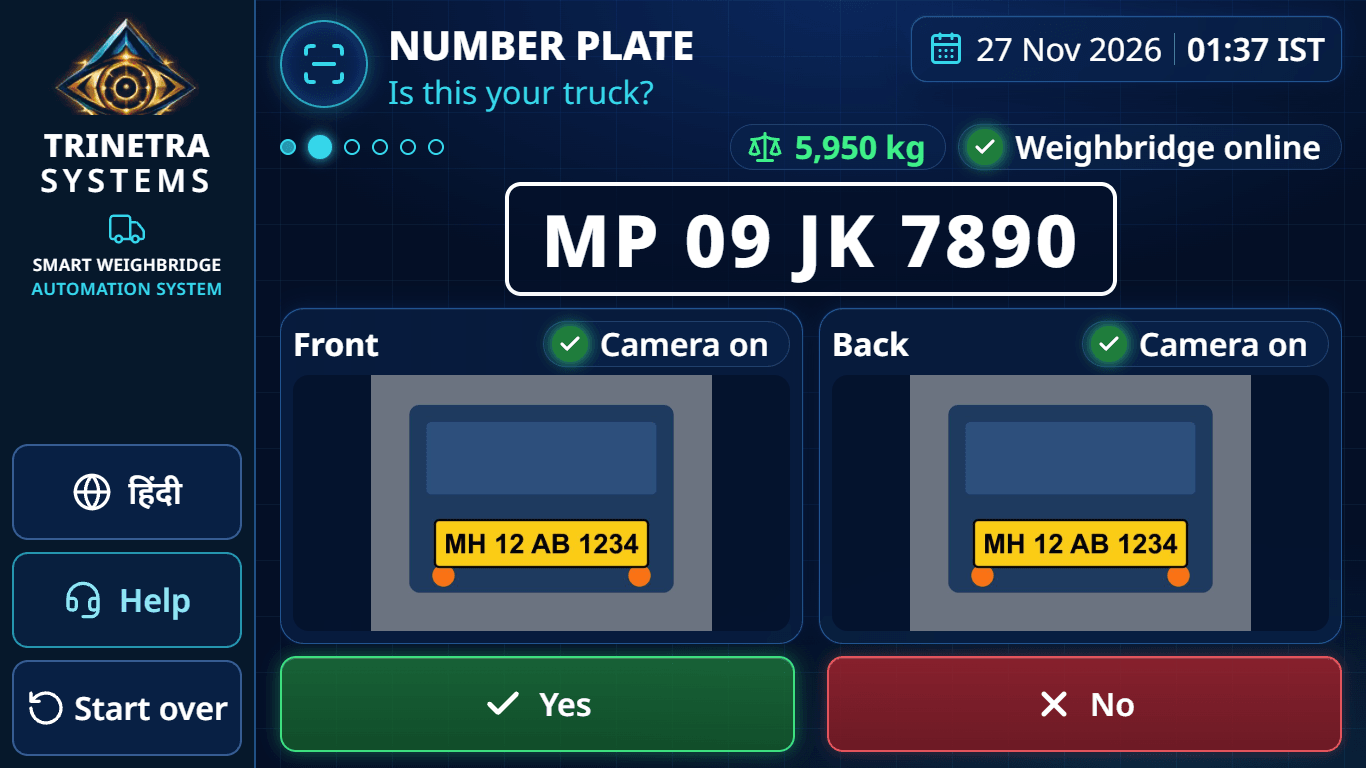
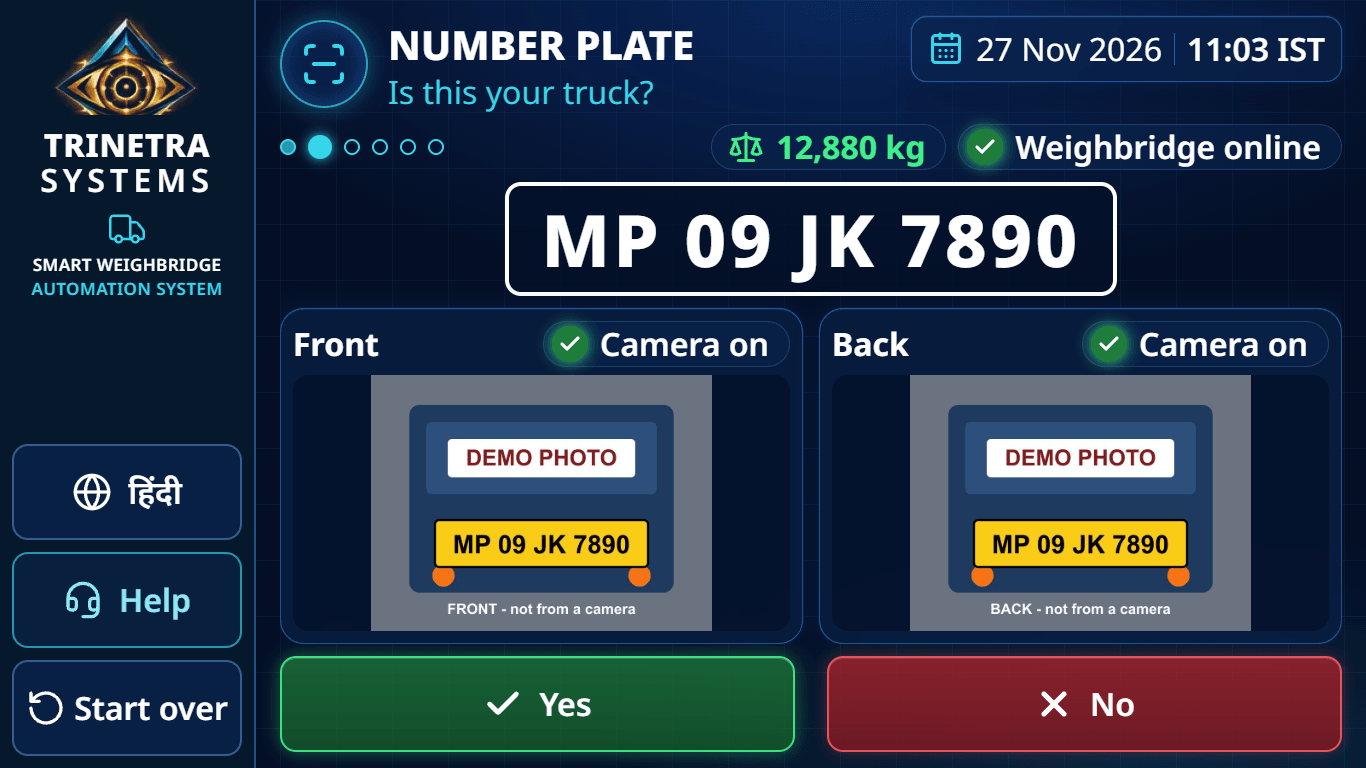
Document the supervisor website, with screenshots, and mark Phase 12 done

diff --git a/docs/HINDI_REVIEW.md b/docs/HINDI_REVIEW.md
@@ -86,7 +86,6 @@ The material words in the seed file (`aliasesHi`) are separate and also unchecke
 | `kiosk.invoice.step3` | Send it | भेज दें |
 | `kiosk.invoice.qr` | QR code to upload your invoice | बिल भेजने का QR कोड |
 | `kiosk.invoice.noPhone` | No phone? | फ़ोन नहीं है? |
-| `kiosk.invoice.officerComing` | The store officer is coming to upload it. | बिल भेजने के लिए स्टोर अधिकारी आ रहे हैं। |
 | `kiosk.invoice.arrived` | Your file arrived | आपकी फ़ाइल मिल गई |
 | `kiosk.invoice.reading` | Reading invoice… | बिल पढ़ा जा रहा है… |
 | `kiosk.invoice.failed` | Not read | पढ़ा नहीं गया |
@@ -219,3 +218,105 @@ The material words in the seed file (`aliasesHi`) are separate and also unchecke
 | `material.aggregate-10-mm` | Aggregate 10 mm | गिट्टी 10 एमएम |
 | `material.sand` | Sand | रेत |
 | `material.bricks` | Bricks | ईंट |
+
+## Phase 12
+
+New or changed for the supervisor's pages and the "No phone?" screen. Not checked by a Hindi speaker. The camera steps name Android and iPhone menus in English: check them against a Hindi phone.
+
+| Key | English | Hindi |
+| --- | --- | --- |
+| `kiosk.invoice.officerComing` | The store officer is coming to upload your bill. Please wait. | आपका बिल भेजने के लिए स्टोर अधिकारी आ रहे हैं। कृपया रुकें। |
+| `kiosk.invoice.waitingOfficer` | Waiting… | इंतज़ार हो रहा है… |
+| `kiosk.invoice.pleaseWait` | Please wait | कृपया रुकें |
+| `kiosk.invoice.foundPhone` | I found my phone → show code again | मेरा फ़ोन मिल गया → कोड फिर दिखाएँ |
+| `menu.trucks` | My trucks | मेरे ट्रक |
+| `tab.trucks` | My trucks | मेरे ट्रक |
+| `page.trucks.subtitle` | The longest wait comes first | सबसे लंबा इंतज़ार सबसे ऊपर |
+| `camera.starting` | Opening the camera… | कैमरा खुल रहा है… |
+| `camera.hint` | Put the number plate inside the box. | नंबर प्लेट को डिब्बे के अंदर रखें। |
+| `camera.take` | Take photo | फ़ोटो लें |
+| `camera.tryAgain` | Try the camera again | कैमरा फिर चालू करें |
+| `camera.denied` | The camera is blocked. Please allow it: | कैमरा बंद है। कृपया इसकी अनुमति दें: |
+| `camera.stepAndroid` | Android Chrome: tap the lock or settings icon beside the address, then Permissions → Camera → Allow. | Android Chrome: पते के पास ताले या सेटिंग वाले निशान को दबाएँ, फिर Permissions → Camera → Allow। |
+| `camera.stepIphone` | iPhone Safari: tap the icon at the left of the address bar, then Website Settings → Camera → Allow. | iPhone Safari: पते की पट्टी के बाईं ओर वाला निशान दबाएँ, फिर Website Settings → Camera → Allow। |
+| `camera.stepThen` | Then press the button below. | फिर नीचे वाला बटन दबाएँ। |
+| `camera.missing` | No camera was found on this device. | इस फ़ोन पर कोई कैमरा नहीं मिला। |
+| `camera.busy` | The camera is in use. Close other camera apps, then try again. | कैमरा कहीं और चल रहा है। दूसरे कैमरा ऐप बंद करके फिर कोशिश करें। |
+| `camera.failed` | The camera did not open. | कैमरा नहीं खुला। |
+| `camera.noLive` | This page cannot show the camera, so the phone's camera app will be used. | यह पेज कैमरा नहीं दिखा सकता, इसलिए फ़ोन का कैमरा ऐप खुलेगा। |
+| `camera.badPhoto` | That photo could not be used. Take another. | यह फ़ोटो काम नहीं आई। दूसरी फ़ोटो लें। |
+| `sup.newTruck` | New truck: {plate} | नया ट्रक: {plate} |
+| `sup.offline` | No connection. Nothing is sent until the network is back. | कनेक्शन नहीं है। नेटवर्क लौटने तक कुछ भी नहीं भेजा जाएगा। |
+| `sup.connection` | Connection: | कनेक्शन: |
+| `sup.tapForSound` | Tap the screen once to turn on the sound for new trucks. | नए ट्रक की आवाज़ चालू करने के लिए स्क्रीन को एक बार छुएँ। |
+| `sup.loading` | Loading… | लोड हो रहा है… |
+| `sup.loadFailed` | The list could not be loaded. | सूची लोड नहीं हो सकी। |
+| `sup.nextTruck` | Next truck | अगला ट्रक |
+| `sup.noTrucks` | No truck is waiting | कोई ट्रक इंतज़ार में नहीं है |
+| `sup.noDone` | Nothing decided yet today | आज अभी कोई फ़ैसला नहीं हुआ |
+| `sup.today` | Today | आज |
+| `sup.kpi.coming` | Coming to me | मेरे पास आए |
+| `sup.kpi.comingNote` | sent to you today | आज आपको भेजे गए |
+| `sup.kpi.waiting` | Waiting for verify | जाँच बाकी |
+| `sup.verified` | Verified | जाँच पास |
+| `sup.trip` | Trip {trip} | फेरा {trip} |
+| `sup.waitingFor` | waiting {minutes} min | {minutes} मिनट से इंतज़ार |
+| `sup.column.trip` | Trip no. | फेरा नं. |
+| `sup.column.since` | Since first weight | पहले वज़न से |
+| `sup.chainage` | Chainage | चेनेज |
+| `sup.firstWeight` | First weight | पहला वज़न |
+| `sup.frontPhoto` | Weighbridge photo | धर्म कांटे की फ़ोटो |
+| `sup.kioskPhoto` | At the weighbridge | धर्म कांटे पर |
+| `sup.myPhoto` | My photo | मेरी फ़ोटो |
+| `sup.noPhoto` | No photo | फ़ोटो नहीं है |
+| `sup.enlarge` | Show the photo large | फ़ोटो बड़ी करें |
+| `sup.verify.title` | Verify truck | ट्रक की जाँच |
+| `sup.verify.subtitle` | Photograph its number plate | इसकी नंबर प्लेट की फ़ोटो लें |
+| `sup.photographPlate` | Photograph the number plate | नंबर प्लेट की फ़ोटो लें |
+| `sup.retake` | Retake | फिर से लें |
+| `sup.retakeLeft` | Retake ({count} left) | फिर से लें ({count} बाकी) |
+| `sup.usePhoto` | Use this photo | यही फ़ोटो भेजें |
+| `sup.reading` | Reading the plate… | प्लेट पढ़ी जा रही है… |
+| `sup.saving` | Saving… | सेव हो रहा है… |
+| `sup.backToResult` | Back to the result | नतीजे पर वापस |
+| `sup.ticketPlate` | Ticket plate | टिकट की प्लेट |
+| `sup.photoReads` | Read from your photo | आपकी फ़ोटो से पढ़ा |
+| `sup.banner.MATCH` | Plate matches | प्लेट मिल गई |
+| `sup.banner.CLOSE` | Almost matches, check with your eyes | लगभग मिलती है, अपनी आँखों से जाँचें |
+| `sup.banner.NO_MATCH` | Plate does not match | प्लेट नहीं मिलती |
+| `sup.banner.NOT_READ` | Could not read | प्लेट पढ़ी नहीं गई |
+| `sup.result.MATCH` | Plate matches | प्लेट मिलती है |
+| `sup.result.CLOSE` | One letter differs | एक अक्षर अलग |
+| `sup.result.NO_MATCH` | No match | मेल नहीं |
+| `sup.result.NOT_READ` | Not read | पढ़ी नहीं गई |
+| `sup.result.MANUAL` | Manual check | हाथ से जाँच |
+| `sup.overrideReason` | To approve, type why (at least {count} letters) | मंज़ूरी देने के लिए कारण लिखें (कम से कम {count} अक्षर) |
+| `sup.approveAnyway` | Approve anyway | फिर भी मंज़ूरी दें |
+| `sup.manualCheck` | Manual check | हाथ से जाँच |
+| `sup.typePlate` | Type the plate you see on the truck | ट्रक पर जो प्लेट दिख रही है, वह लिखें |
+| `sup.approveManual` | Approve (manual check) | मंज़ूरी दें (हाथ से जाँच) |
+| `sup.rejectWhy` | Why are you rejecting it? | आप इसे क्यों अस्वीकार कर रहे हैं? |
+| `sup.rejectTruck` | Reject truck | ट्रक अस्वीकार करें |
+| `sup.reason.wrongTruck` | Wrong truck | गलत ट्रक |
+| `sup.reason.covered` | Plate covered/fake | प्लेट ढकी या नकली |
+| `sup.reason.notUnloaded` | Material not unloaded | माल नहीं उतारा गया |
+| `sup.reason.other` | Other | कुछ और |
+| `sup.reason.type` | Type the reason | कारण लिखें |
+| `sup.done.approved` | Approved. The truck can go back for the second weighing. | मंज़ूरी दे दी। ट्रक दूसरे वज़न के लिए लौट सकता है। |
+| `sup.done.rejected` | Rejected. The truck is blocked and the store officer is told. | अस्वीकार किया। ट्रक रोक दिया गया है और स्टोर अधिकारी को बता दिया गया है। |
+| `sup.done.taken` | Already done by someone else. | यह काम पहले ही हो चुका है। |
+| `sup.nextTruckPlate` | Next truck: {plate} | अगला ट्रक: {plate} |
+| `sup.backToTrucks` | Back to my trucks | मेरे ट्रक पर वापस |
+| `sup.backToDone` | Back to the list | सूची पर वापस |
+| `sup.detail.title` | Truck details | ट्रक का ब्योरा |
+| `sup.decidedAt` | Decided | फ़ैसले का समय |
+| `sup.typedPlate` | Plate you typed | आपकी लिखी प्लेट |
+| `sup.confidence` | Reader's confidence | पढ़ने का भरोसा |
+| `sup.reasonLabel` | Reason | कारण |
+| `sup.cameraApp` | Taken with the phone's camera app | फ़ोन के कैमरा ऐप से ली गई |
+| `sup.error.photoLimit` | No photos left. Reject, or check by hand. | अब और फ़ोटो नहीं ले सकते। अस्वीकार करें या हाथ से जाँचें। |
+| `sup.error.photoBusy` | The last photo is still being read. Wait a moment. | पिछली फ़ोटो अभी पढ़ी जा रही है। थोड़ा रुकें। |
+| `sup.error.plateDiffers` | That is not this ticket's plate. Check again, or reject the truck. | यह इस टिकट की प्लेट नहीं है। फिर देखें, या ट्रक अस्वीकार करें। |
+| `sup.error.reason` | The reason is too short. | कारण बहुत छोटा है। |
+| `sup.error.notYours` | This truck was not sent to your unloading point. | यह ट्रक आपकी उतारने की जगह पर नहीं भेजा गया। |
+| `sup.error.noTruck` | This truck was not found. | यह ट्रक नहीं मिला। |

diff --git a/CLAUDE.md b/CLAUDE.md
@@ -81,7 +81,7 @@ Related docs:
 
 ## Current status
 
-Phase 10 done (the weighbridge kiosk, the phone upload page and the slips), with invoice reading made asynchronous. Next: Phase 12 (supervisor website), or Phase 5B (needs hardware code). Phase 5 is still open. The real plate-reading test (9 of 10 on ESP32-CAM photos of the model plates) is part of 5B and has not been run. Nothing has been tried on a real touchscreen, phone or printer. The Hindi text is unchecked ([docs/HINDI_REVIEW.md](docs/HINDI_REVIEW.md)).
+Phase 12 done (the supervisor website), with three Phase 10 fixes: `PUBLIC_WEB_URL` + `pnpm lan`, the demo-mode plate photo and the "No phone?" screen. Next: Phase 13 (store officer website), or Phase 5B (needs hardware code). Phase 5 is still open. The real plate-reading test (9 of 10 on ESP32-CAM photos of the model plates) is part of 5B and has not been run. **Nothing has been tried on a real touchscreen, phone or printer** (Phase 12's "Done when" passed in the browser test only). The Hindi text is unchecked ([docs/HINDI_REVIEW.md](docs/HINDI_REVIEW.md)). To try on a phone: [docs/PROGRESS.md](docs/PROGRESS.md#testing-on-your-phone).
 
 Business rules are pure functions in `packages/shared` (`src/rules`, `src/matching`, `src/format.ts`). Use them; do not repeat a rule in the backend or website. The ticket API's request schemas and answer types are in `src/tickets.ts`.
 
@@ -91,7 +91,9 @@ Website rules to keep: call the backend only through `api` (`apps/web/src/lib/ap
 
 Kiosk rules to keep: `/kiosk` is one page (`components/kiosk/kiosk-app.tsx`). `lib/kiosk/flow.ts` decides the screen from the ticket's status plus the driver's step; every driver screen is a `KioskFrame`. A press that saves goes through `useAction()` (one at a time, same Idempotency-Key on retry). After any `await`, check the kiosk has not moved on (`sameDriver()`, or `answered(from)`): the truck may have left.
 
-**Phases 11–14 must follow [docs/design/STYLE_GUIDE.md](docs/design/STYLE_GUIDE.md):** two themes (token colour names only), the shared components (`/dev/ui` shows them), status = colour + icon + word, and the driver rules. Every new kiosk screen is checked with `look()` (`tests/e2e/kiosk-world.ts`) at 1366×768 and 1920×1080 in both languages with its longest message showing, and its picture is looked at. `pnpm test:e2e` runs the browser tests (installed Chrome, development database, demo reset); `pnpm screenshots:kiosk` retakes `docs/screenshots/phase10`. The design reference images and side-by-side comparisons are on this computer only: do not commit them (public repository) unless the user says so. `pnpm office` makes the supervisor's and store's decisions until Phases 12 and 13.
+Supervisor rules to keep: the supervisor's pages are `app/supervisor/(signed-in)/` (data in `lib/supervisor/queries.ts`, keys start with `SUPERVISOR_KEY`); `TruckWatcher` in `RoleShell` does live reloading, the sound and the tab title. Staff take photos only with `components/camera/live-camera.tsx` (reuse it for the store pages). The backend judges every photo (`comparePlates`) and refuses an approval without one. Buttons are at least 48 px. `pnpm test:e2e` includes `supervisor.spec.ts`; `PHASE12_SHOTS=1` retakes `docs/screenshots/phase12` (then `pnpm -C scripts run compress-screenshots ../docs/screenshots/phase12`).
+
+**Phases 11–14 must follow [docs/design/STYLE_GUIDE.md](docs/design/STYLE_GUIDE.md):** two themes (token colour names only), the shared components (`/dev/ui` shows them), status = colour + icon + word, and the driver rules. Every new kiosk screen is checked with `look()` (`tests/e2e/kiosk-world.ts`) at 1366×768 and 1920×1080 in both languages with its longest message showing, and its picture is looked at. `pnpm test:e2e` runs the browser tests (installed Chrome, development database, demo reset); `pnpm screenshots:kiosk` retakes `docs/screenshots/phase10`. The design reference images and side-by-side comparisons are on this computer only: do not commit them (public repository) unless the user says so. `pnpm office` makes the store officer's decisions until Phase 13 (it can still make the supervisor's).
 
 Settle before the phases that need it:
 
@@ -100,9 +102,12 @@ Settle before the phases that need it:
 - **Open:** logging out does not close the live connection of other open tabs; the server ends it when the 12 hour login expires. (Such a tab goes to the login when it next gets focus.)
 - **Open:** the kiosk's dialogs are not measured by the driver-rule check.
 - **Open:** "Reset demo data" does not delete help calls made before a ticket existed.
-- **Phases 12/13:** replace the dashboard homes' sample data with real data, delete `src/lib/sample-data.ts`, and make the bell count real alerts. The store pages must handle driver help (also from "No phone?": the officer scans the kiosk's QR code).
+- **Phase 13:** replace the store home's sample data with real data, delete `src/lib/sample-data.ts`, and make the store's bell count real alerts. The store pages must handle driver help; from "No phone?" the kiosk hides the QR code, so the officer presses "I found my phone → show code again" and scans it (or the store page gets its own upload).
+- **To try with a real phone (Phase 12):** certificate warning, camera on Android Chrome and iPhone Safari, the live connection on iPhone with the self-signed certificate, sound and vibration.
+- **To decide:** with the current seed only Amit Kumar receives trucks (every Type 1 material is unloaded at Plant). Showing another unloading point's supervisor needs a seed rule change.
+- **To decide:** send the supervisor's GPS with the photo (build plan section 10; the backend accepts it, the page does not send it).
 - **Phase 14:** build `/t/<ticket-no>` (the slips' QR codes point to it) and the demo settings behind the 3 second logo hold (it offers only "Log out" now).
-- **To try with a real phone:** the invoice QR holds `FRONTEND_ORIGIN`, so the phone must be able to open that address. Test "Take photo" and an iPhone HEIC photo.
+- **To try with a real phone:** the QR codes hold `PUBLIC_WEB_URL` (`pnpm lan` sets it). Test "Take photo" and an iPhone HEIC photo.
 - **A high plate confidence is not proof** (a 99% read was wrong in the Phase 7 check): the driver always confirms the plate.
 - **Gemini backup (decided):** `GEMINI_FALLBACK_MODEL` (default `gemini-3.5-flash-lite`) is asked once when `GEMINI_MODEL` is busy, rate limited or times out. Results carry `model`. `gemini-3.8-flash` itself had not answered a request during Phase 7.
 - **To decide:** Whether to ask Gemini for a second opinion when Plate Recognizer's read is not in the vehicle list or front and back differ.
@@ -113,6 +118,7 @@ Settle before the phases that need it:
 - **Before Phase 16:** set `NODE_ENV=production` on Railway (otherwise the login cookie is not `Secure`).
 - **Before Phase 16:** configure Fastify's `trustProxy` safely for Railway, so rate limits use the real client address (otherwise all users may share the limits; login: 20 a minute, phone upload: 30 a minute). With the rewrite, it must cover both hops.
 - **Before Phase 16:** test the Supabase storage driver against the real bucket.
+- **Before Phase 16:** set `PUBLIC_WEB_URL` on Railway and Vercel to the website's address. The demo "pick" photo is drawn with a system font: check its text on Railway (Linux).
 - **Before Phase 16:** set `BACKEND_URL` on Vercel, and test an 8 MB upload and a slow plate reading (up to about 28 s) through Vercel's forwarding.
 - **Before Phase 16:** the "live" room has no limit on how many viewers can connect.
 

diff --git a/docs/PROGRESS.md b/docs/PROGRESS.md
@@ -244,12 +244,56 @@ Added 2026-11-26, not one of the 120 steps.
 
 ## Phase 12 — Supervisor website
 
-- [ ] **100.** My trucks list with live updates, sound and vibration.
-- [ ] **101.** Live camera component (back camera, capture, compress), shared with the store pages.
-- [ ] **102.** Verify page: photos, plate match, approve / reject / manual check.
-- [ ] **103.** Done list.
+- [x] **100.** My trucks list with live updates, sound and vibration.
+- [x] **101.** Live camera component (back camera, capture, compress), shared with the store pages.
+- [x] **102.** Verify page: photos, plate match, approve / reject / manual check.
+- [x] **103.** Done list.
+
+**Also in this phase** (added 2026-11-27, not one of the 120 steps), fixes from the Phase 10 review:
+
+- [x] `PUBLIC_WEB_URL` goes into the invoice and slip QR codes; `pnpm lan` serves the website over https on the Wi-Fi address.
+- [x] Demo "pick" plate mode draws a "DEMO PHOTO" with the picked number. It no longer shows a camera's photo, which could carry another plate.
+- [x] Kiosk "No phone?": the QR code and steps go; a waiting card and "I found my phone → show code again".
+- [ ] The new Hindi text needs your review: [HINDI_REVIEW.md](HINDI_REVIEW.md#phase-12).
 
 **Done when:** approving on a phone unlocks the kiosk in under 1 second.
+
+✅ Passed on 2026-11-27 **in the browser test only**: Playwright with a 390×844 window as the phone, a pretend camera stream, the ESP32 simulator and demo "pick" plate mode. The kiosk showed the approval 110–180 ms after the tap, with everything on one computer. A Type 1 truck was weighed at the real kiosk screens, appeared on the phone by itself, was approved there, and finished its second weighing. The tests also cover one letter different, no match, reject, manual check, double tap, lost network, "Already done by someone else", login and back to the same page, another supervisor (403), a refused camera and a page without a camera. All 40 browser tests (the Phase 10 journeys among them) and the five `pnpm journey` scenarios passed. Pictures are in [screenshots/phase12](screenshots/phase12). `pnpm lan` was checked from the laptop itself, through its Wi-Fi address: pages, login (a Secure cookie), live connection by polling and by WebSocket, and another website's origin refused.
+
+- **Not tried on a real phone:** the certificate warning, the real camera, Android Chrome, iPhone Safari (including whether its live connection accepts this certificate; if not, it should keep working by polling), the sound and the vibration (iPhones have no vibration for web pages).
+- No real Plate Recognizer or Gemini call was made. "Could not read" was shown by replacing one answer in the browser; the backend's handling of an unread photo is in the API tests.
+- The supervisor's photo is saved without GPS (build plan section 10 mentions it; the backend accepts it, the page does not send it).
+
+### Testing on your phone
+
+1. Once, after pulling this phase: `pnpm install`, then `pnpm db:migrate`.
+2. Connect the laptop and the phone to the **same Wi-Fi**. A college or office Wi-Fi may stop devices from seeing each other: then use a phone hotspot.
+3. Stop `pnpm dev`, then run `pnpm lan`. It prints the address to open, such as `https://192.168.1.20:3000/supervisor`. (`pnpm lan --ip <address>` if it picked the wrong network.)
+4. On the phone the first time: certificate warning → **Advanced → Proceed** (iPhone: **Show Details → visit this website**).
+5. On the laptop open `https://localhost:3000/kiosk` (the same warning once).
+
+**Windows firewall:** Node.js must be allowed on **private** networks. Windows usually asks the first time: tick **Private networks**. If it did not ask, or the phone cannot connect: Windows Security → Firewall & network protection → Allow an app through firewall → **Node.js JavaScript Runtime** → tick **Private**, and make sure the Wi-Fi is set as a private network.
+
+**One full Type 1 truck:** in a second terminal `pnpm office reset`, then `pnpm office pick cement`; in a third, `pnpm sim --loaded 32560`. Press `a` in the simulator, finish the first visit on the kiosk (material **Cement Bags**), then press `l`. On the phone: **Verify → Take photo → Use this photo → Approve**. Press `a` again: the kiosk offers the second weight. In "pick" mode the photo always "reads" the picked plate; `pnpm office real` after the first weight makes the supervisor's photo use the real readers.
+
+### Supervisor logins (test only)
+
+These are public in the repository. They must be changed before deploying (Phase 16). The unloading point is the one the seed's unloading rules give that supervisor.
+
+| Username | PIN  | Name         | Unloading point                 |
+| -------- | ---- | ------------ | ------------------------------- |
+| amit     | 1001 | Amit Kumar   | Plant                           |
+| suresh   | 1002 | Suresh Yadav | CH-003+750 Bridge Approach Road |
+| ravi     | 1003 | Ravi Singh   | CH-005+250 Hill Section Area    |
+| mahesh   | 1004 | Mahesh Patel | CH-009+800 Near Quarry Area     |
+| vikram   | 1005 | Vikram Sharma| CH-010+500 Middle Section Point |
+| dinesh   | 1006 | Dinesh Verma | Plant (Steel Scrap)             |
+| pankaj   | 1007 | Pankaj Gupta | CH-012+300 Valley Crossing      |
+| ajay     | 1008 | Ajay Kumar   | none in the rules               |
+| deepak   | 1009 | Deepak Yadav | none in the rules               |
+| rohit    | 1010 | Rohit Kumar  | none in the rules               |
+
+**Only `amit` receives trucks with the current seed:** only Type 1 trucks are checked, and every Type 1 material is unloaded at Plant (Amit Kumar). The others see an empty list.
 
 ## Phase 13 — Store officer website
 

diff --git a/docs/DECISIONS.md b/docs/DECISIONS.md
@@ -211,3 +211,14 @@ One row per decision. All rows dated 2026-11-26 come from the [build plan](BUILD
 | 2026-11-27 | New for the kiosk: `GET /api/master`, `GET /api/kiosk/collect`, the live event `photo:arrived`, and `language` in `PATCH /api/tickets/:id/details` | The screens need them |
 | 2026-11-27 | In development a click on the invoice QR code opens the phone page; the production build has no link | To try the upload without a phone |
 | 2026-11-27 | `pnpm office` (pick modes and the people's decisions) and `pnpm sim --loaded <kg>` | To try every type by hand before Phases 12 and 13 |
+| 2026-11-27 | `PUBLIC_WEB_URL` (server and website) is what the invoice and slip QR codes hold. A localhost value is refused, and production refuses to start with only a localhost address. Left empty in plain `pnpm dev`, it falls back to `FRONTEND_ORIGIN` (localhost, for desktop testing) and the server logs a warning. The server allows both `FRONTEND_ORIGIN` and `PUBLIC_WEB_URL` (CORS and the Socket.IO origin check) | A phone cannot open localhost, but local work and the browser tests need the desktop address. Requested (Phase 12) |
+| 2026-11-27 | `pnpm lan`: Next dev with `--experimental-https` and a certificate made by the script (package `selfsigned`, kept in `apps/web/certificates`, not committed). With `NEXT_PUBLIC_SOCKET_URL=same-origin` Next also forwards `/socket.io/` to the backend, so a phone uses one https address. The login cookie is `Secure` whenever `FRONTEND_ORIGIN` is https; it stays SameSite=Lax | Next's own certificate tool downloads a program and adds a root certificate to Windows, and covers localhost. An https page cannot open the backend's plain ws://, and a phone's certificate exception covers only one port. This changes, for LAN mode only, the rule that Socket.IO connects to the backend directly |
+| 2026-11-27 | Demo "pick" plate mode asks no camera; it saves a drawn "DEMO PHOTO" showing the picked number. Replaces the earlier row that kept connected cameras' photos | A screen must never show a plate other than the one picked. Requested |
+| 2026-11-27 | "No phone?" replaces the QR code with a waiting card; the driver's reminders stop there. The officer (Phase 13) can press "I found my phone → show code again" to scan the code | Requested |
+| 2026-11-27 | The supervisor's photo result is MATCH, CLOSE (one character changed, missing or extra), NO_MATCH or NOT_READ. **No approval without a live photo.** CLOSE: Approve means "I checked with my eyes". NO_MATCH: a reason of 10+ characters. NOT_READ: a reason of 10+ characters and the typed plate, which must equal the ticket's plate; saved as MANUAL. Replaces the build plan's "up to 3 photos, then reject or manual check with a note" (the 3 photo limit stays) | Requested (Phase 12). A typed plate that differs is a different truck |
+| 2026-11-27 | Migration 0004 adds `approvals.match_result`, `plate_confidence`, `capture_source` and `manual_plate`; the supervisor's note is saved in `reason`. `GET /api/supervisor/tickets` also returns the supervisor's unloading points, lists waiting trucks oldest first, and `status=done` is today (India time) only. No new route | Everything the check needs is saved with the request; the pages reuse the existing routes |
+| 2026-11-27 | A supervisor's rejection keeps the existing rule: the ticket is BLOCKED and the store officer is told. Reasons: Wrong truck, Plate covered/fake, Material not unloaded, or "Other: …", saved in English. Replaces the build plan's reason list | The request said to follow the existing rule and add no new state; it also mentioned HOLD, but HOLD exists only for a failed tolerance check |
+| 2026-11-27 | Home numbers, for today: Coming to me = trucks sent to this supervisor today (decided today + waiting); Waiting for verify = waiting now; Average wait = first weight to decision | No status says that a truck is on its way to the unloading point |
+| 2026-11-27 | The camera is the in-page back camera, with no gallery. Only where the page cannot open a camera at all, a file input with `capture="environment"` is used and the photo is saved as `captureSource=fallback`. Photos are JPEG, at most 1280 px (the build plan said about 1600). GPS is not sent | Requested. A refused camera shows how to allow it instead |
+| 2026-11-27 | After a 401 a staff page goes to its login with `?next=<page>`; only a page of the same part is accepted | Come back to the same page, without letting an address send anyone elsewhere |
+| 2026-11-27 | The general rate limit is 1200 requests a minute when `NODE_ENV=development` (also `pnpm lan`); production and tests stay at 300, and the login and upload limits are unchanged. A login check answered 429 is asked again every 3 s | Behind the website every browser shares one address. With the supervisor pages loading real data, quick page loads reached 300 and the page stayed on "Checking your login…". Phase 16 must still set `trustProxy` |

diff --git a/README.md b/README.md
@@ -7,7 +7,7 @@ A funding prototype of a smart weighbridge, built as **one website** with three 
 - Decisions: [docs/DECISIONS.md](docs/DECISIONS.md)
 - Rules for Claude: [CLAUDE.md](CLAUDE.md)
 
-**Current state:** Phase 10. A truck's first and second visit of every type works by touch at `/kiosk`, in English and Hindi, with the simulator; the driver's invoice goes up from the phone page. The supervisor and store dashboards still show sample data (`pnpm office` makes their decisions meanwhile). The real firmware (Phase 5B) is not built yet.
+**Current state:** Phase 12. A truck's first and second visit of every type works by touch at `/kiosk`, in English and Hindi, with the simulator; the driver's invoice goes up from the phone page. The supervisor's phone pages work (Phase 12; see [testing on your phone](docs/PROGRESS.md#testing-on-your-phone)). The store officer's dashboard still shows sample data (`pnpm office` makes those decisions meanwhile). The real firmware (Phase 5B) is not built yet.
 
 ## Folder layout
 
@@ -439,6 +439,7 @@ Run all commands from the repository root.
 | `pnpm test:e2e`          | Runs the browser tests (see [Browser tests](#browser-tests))                    |
 | `pnpm screenshots`       | Takes the pictures in `docs/screenshots/ui-update` again                        |
 | `pnpm screenshots:kiosk` | Runs the kiosk tests and saves every screen in `docs/screenshots/phase10`       |
+| `pnpm lan`               | Website and backend over https on the Wi-Fi address, for a phone                |
 | `pnpm office`            | Demo pick modes and the supervisor's and store's decisions, for trying by hand  |
 | `pnpm sim`               | Simulates the main ESP32 and both cameras (see [Simulator](#simulator))         |
 | `pnpm journey`           | Runs the five truck journeys (see [Journeys](#journeys))                        |

diff --git a/docs/design/STYLE_GUIDE.md b/docs/design/STYLE_GUIDE.md
@@ -136,7 +136,9 @@ Use it through `RoleShell`, which fills it in. The menus are in `src/lib/menus.t
 
 Top bar: menu button, page title with the connection light (and the subtitle on wide screens), date and time, the bell with a red count, and the user's picture with name and role (name and role on very wide screens). On a phone it keeps only the menu button, title, connection, bell and picture.
 
-**The bell counts sample alerts** until Phases 12 and 13.
+The supervisor's bell counts the trucks waiting. **The store officer's bell counts sample alerts** until Phase 13.
+
+**Supervisor pages** are made for a phone: every button and link used as a button is at least 48 px tall (`size="lg"`), and `tests/e2e/supervisor.spec.ts` measures it.
 
 A menu may have **3 or 4 pages**; the bottom tab bar cannot hold more. Give each a short tab name.
 
@@ -172,6 +174,10 @@ The full logo and one white card on navy: the staff logins and pages without a m
 | `LogoutButton`                   | Already placed by `RoleShell`. It asks first                          |
 | `LogoMark`, `LogoFull`           | **Only on `nav` navy:** the picture has a solid navy background       |
 | `ConnectionStatusLight`, `WeighbridgeStatusLight` | This screen's connection; the ESP32 online or offline |
+
+| `LiveCamera` (`components/camera`) | Every photo staff take: the back camera inside the page, no gallery. Also for the store pages |
+| `NetworkBanner`                    | Lost network. Nothing is queued                                                              |
+| `PlateText`, `ZoomPhoto` (`components/supervisor/parts`) | A number plate in large letters; a photo that a tap enlarges            |
 
 ### Kiosk (`components/kiosk`)
 
